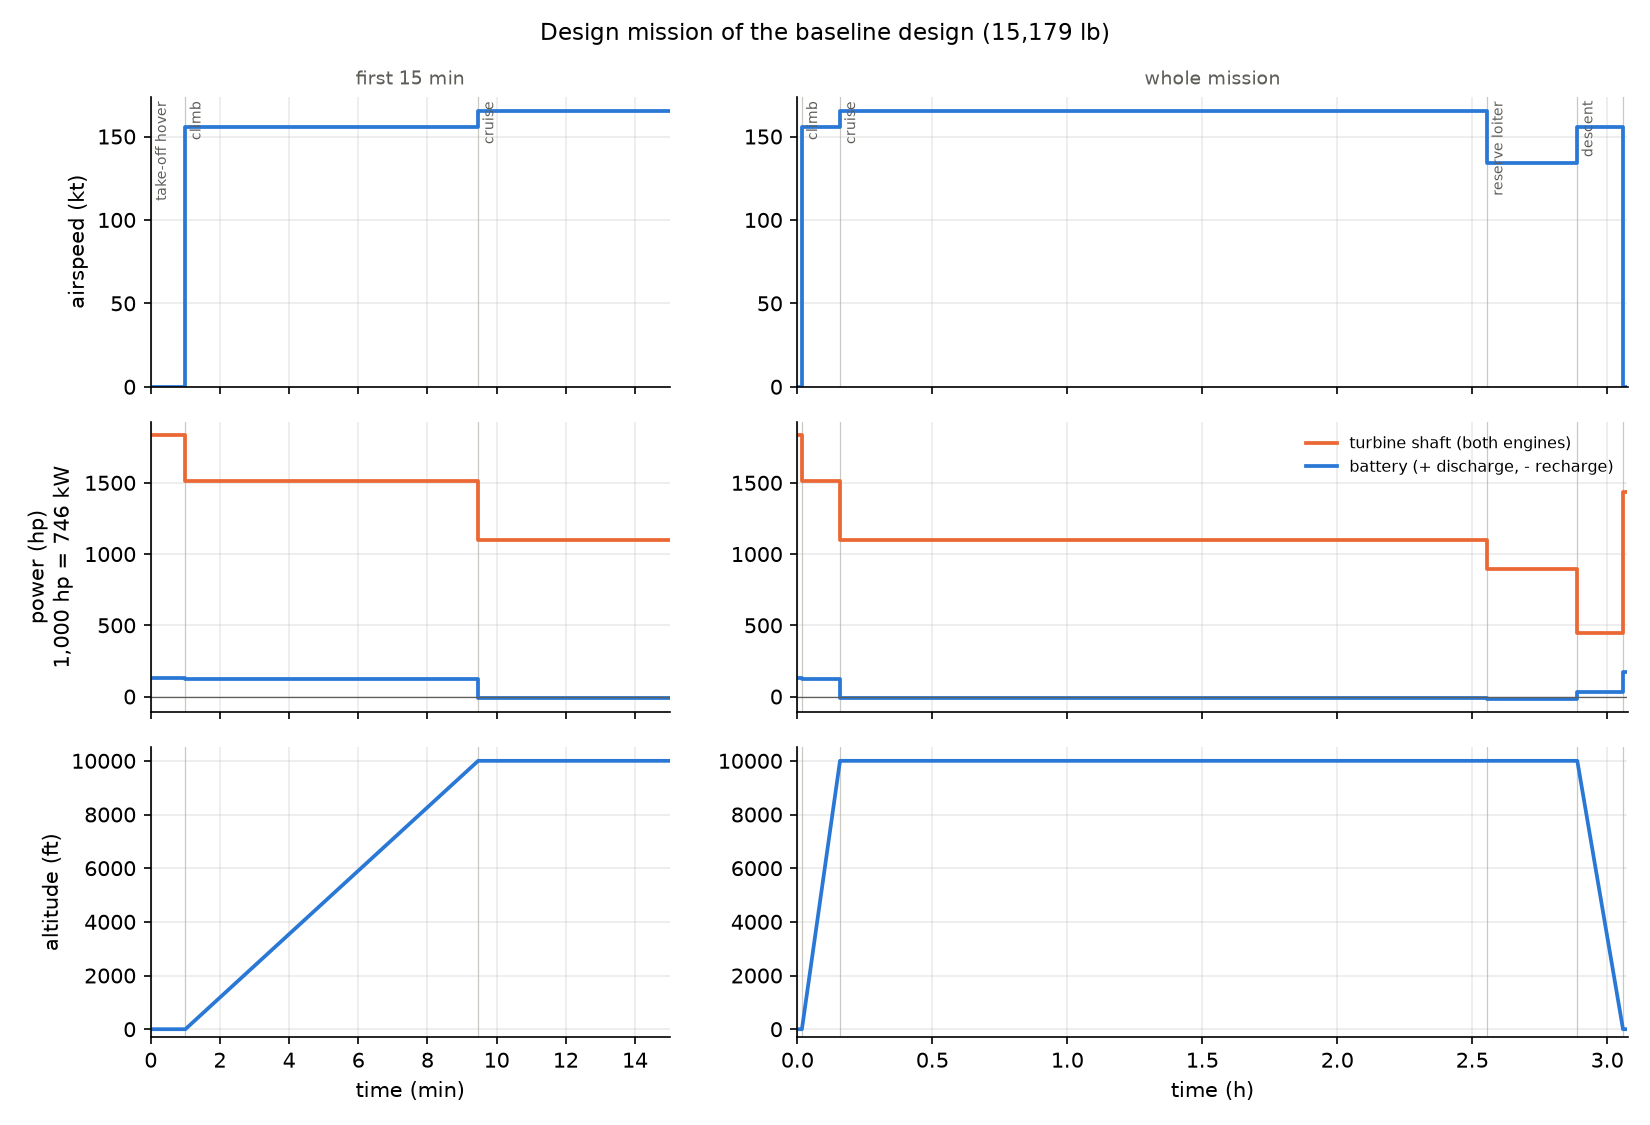
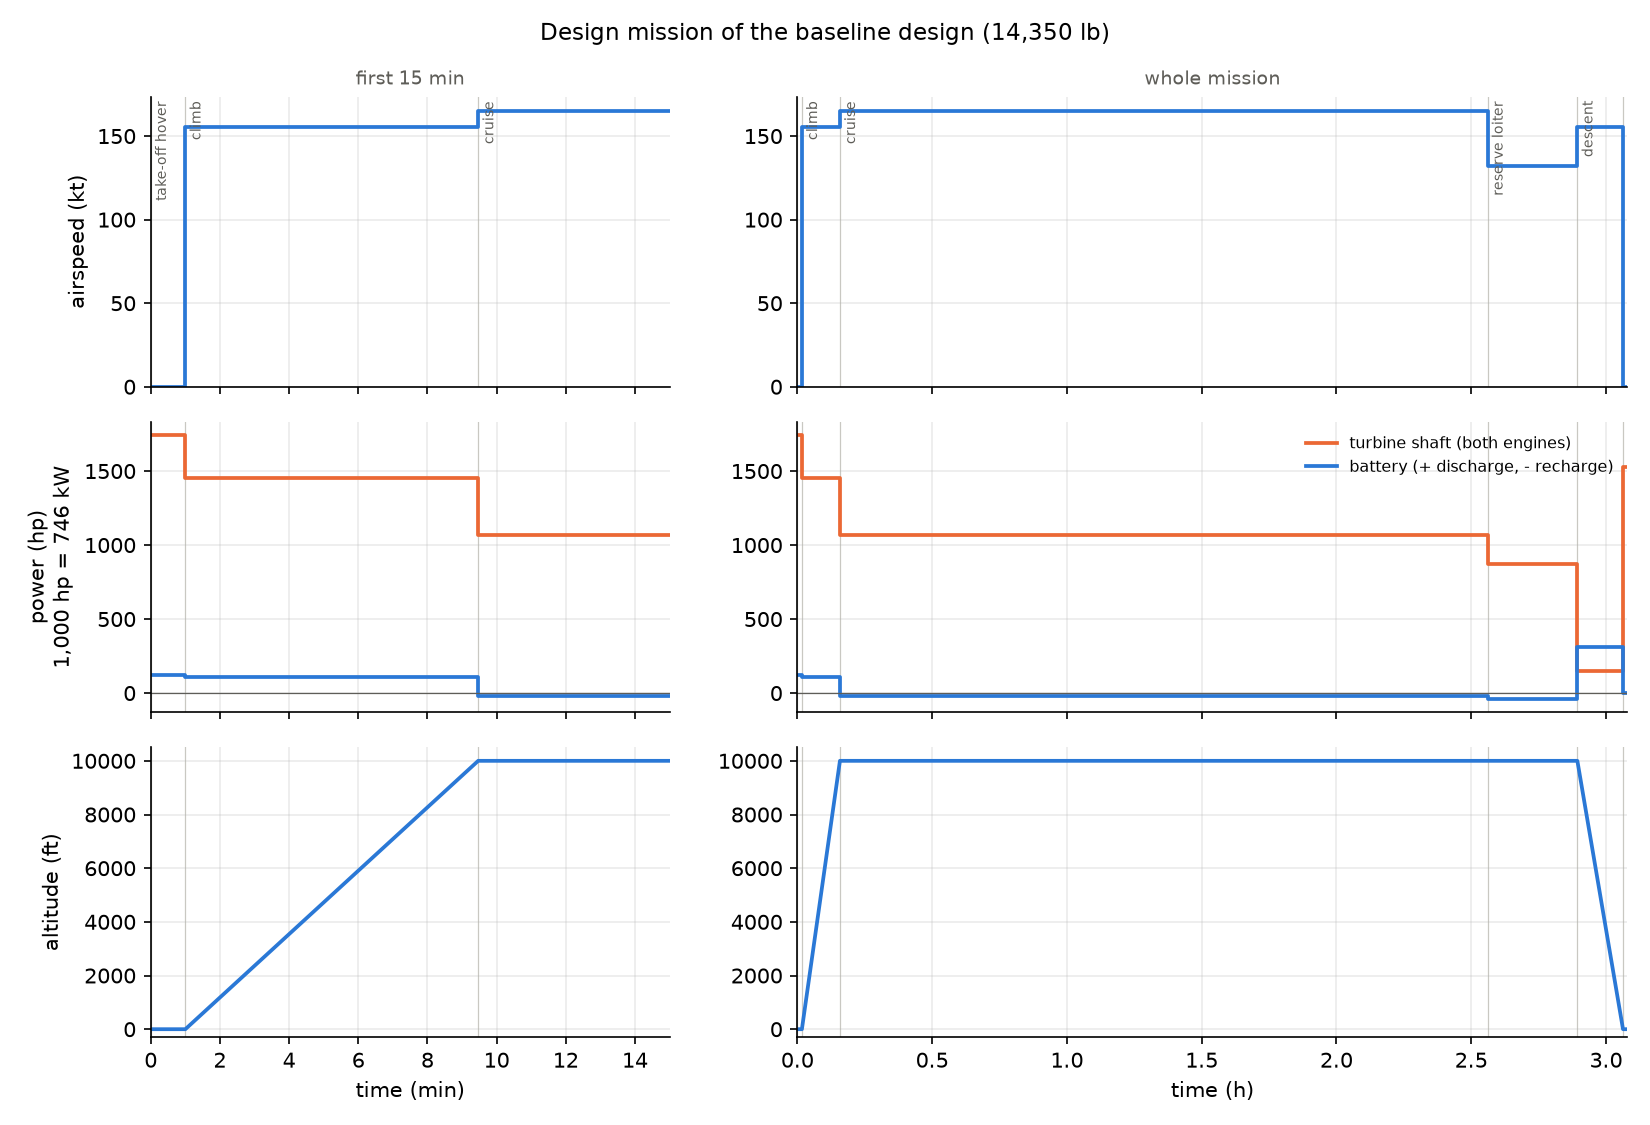
docs(readme): v3.10 figures, empty-weight table and mission profiles (plan 060)
The README figures were still v3.6. Regenerated from the v3.10 sizing; the empty-weight donut gets a
script (examples/halo_oew_breakdown.py) since it had none.

diff --git a/examples/halo_oew_breakdown.py b/examples/halo_oew_breakdown.py
@@ -1,0 +1,83 @@
+"""Empty-weight breakdown of the sized Halo baseline as a donut: powertrain groups in blue, airframe in orange.
+
+    python -m examples.halo_oew_breakdown    # sizes the baseline; writes output/oew/oew_breakdown.png
+"""
+import os
+
+import aerosandbox.tools.units as u
+
+# (label, airframe component names, powertrain instance names); powertrain groups first.
+groups = (
+    ("Rotors and gearboxes", (), ("propulsor", "gearbox", "generator_gearbox")),
+    ("Motors and generators", (), ("motor", "generator")),
+    ("Battery", (), ("battery",)),
+    ("Turboshafts, cooling,\nprotection", (), ("turboshaft", "heat_exchanger", "protection_string",
+                                              "protection_bus_tie", "cable_bus_tie")),
+    ("Systems and equipment", ("systems", "equipment"), ()),
+    ("Wing, nacelles, tails", ("wing", "nacelles", "horizontal_tail", "vertical_tail", "drive_shaft"), ()),
+    ("Fuselage", ("fuselage",), ()),
+    ("Landing gear", ("landing_gear",), ()),
+)
+colors = ("#1d4f91", "#2a78d6", "#71a3e3", "#b3cdf0", "#f2b28f", "#eb6834", "#b84a1f", "#7a3315")
+
+
+def group_masses_kg(sizing):
+    """(label, mass) per group; every empty-weight item lands in exactly one group."""
+    components, powertrain = dict(sizing.component_masses_kg), dict(sizing.powertrain_masses_kg)
+    rows = [(label, sum(components.get(n, 0.0) for n in names_c) + sum(powertrain.get(n, 0.0) for n in names_p))
+            for label, names_c, names_p in groups]
+    named = {n for _, c, p in groups for n in c + p}
+    missing = [n for n in list(powertrain) if n not in named]
+    if missing:
+        raise ValueError(f"powertrain items not grouped: {missing}")
+    return rows
+
+
+def plot_breakdown(sizing, path, version=None):
+    import matplotlib
+    matplotlib.use("Agg")
+    import matplotlib.pyplot as plt
+    rows = group_masses_kg(sizing)
+    total_lb = sum(m for _, m in rows) / u.lbm
+    fig, ax = plt.subplots(figsize=(9.3, 6.3), facecolor="#FFFFFF")
+    wedges, _ = ax.pie([m for _, m in rows], colors=colors, startangle=90, counterclock=False,
+                       wedgeprops=dict(width=0.42, edgecolor="#FFFFFF", linewidth=2))
+    for wedge, (label, mass_kg) in zip(wedges, rows):
+        angle = numpy_deg_mid(wedge)
+        x, y = cos_sin(angle)
+        ax.annotate(f"{label}\n{mass_kg / u.lbm:,.0f} lb ({mass_kg / u.lbm / total_lb:.0%})".replace("%", " %"),
+                    xy=(0.8 * x, 0.8 * y), xytext=(1.28 * x, 1.22 * y), fontsize=9.5, color="#222222",
+                    ha="left" if x > 0 else "right", va="center",
+                    arrowprops=dict(arrowstyle="-", color="#555555", lw=0.8))
+    ax.text(0, 0.08, f"{total_lb:,.0f} lb", ha="center", va="center", fontsize=16, fontweight="bold")
+    ax.text(0, -0.12, f"empty weight\n({total_lb * u.lbm:,.0f} kg)", ha="center", va="center", fontsize=9.5,
+            color="#666666")
+    name = f"{version}, " if version else ""
+    ax.set_title(f"Empty weight breakdown, {name}{sizing.mass_takeoff_kg / u.lbm:,.0f} lb take-off "
+                 f"(powertrain blue, airframe orange)", fontsize=11.5, pad=30)
+    ax.set_aspect("equal")
+    fig.tight_layout()
+    os.makedirs(os.path.dirname(path) or ".", exist_ok=True)
+    fig.savefig(path, dpi=110, facecolor="#FFFFFF")
+    plt.close(fig)
+    return rows
+
+
+def numpy_deg_mid(wedge):
+    return 0.5 * (wedge.theta1 + wedge.theta2)
+
+
+def cos_sin(angle_deg):
+    import math
+    return math.cos(math.radians(angle_deg)), math.sin(math.radians(angle_deg))
+
+
+def run(sizing=None, directory="output/oew", version=None):
+    if sizing is None:
+        from examples.halo_sizing import solve_halo_sizing
+        sizing = solve_halo_sizing()
+    return plot_breakdown(sizing, os.path.join(directory, "oew_breakdown.png"), version)
+
+
+if __name__ == "__main__":
+    run()

diff --git a/README.md b/README.md
@@ -37,8 +37,8 @@ inputs without restructuring the model.
 | Cooling | epsilon-NTU offset-strip-fin core in a ram-air duct with a hover fan, 58 kg (plans 042, 051) |
 | Fuselage | 36.1 ft long, unpressurized box section 5.5 × 6.6 ft |
 
-The empty-weight breakdown, its uncertainty and the mission-profile figures below are still those of v3.6
-(15,179 lb) until they are regenerated. The model works in SI internally; [docs/RESULTS.md](docs/RESULTS.md) gives
+The empty-weight breakdown, its uncertainty and the mission profiles below are v3.10. The payload-range diagram,
+the battery-size trade and the constraint diagram are still drawn on earlier versions (labelled on each). The model works in SI internally; [docs/RESULTS.md](docs/RESULTS.md) gives
 the SI values alongside.
 
 ![Halo-class 3-view and nacelle conversion](docs/figures/halo_views.png)
@@ -64,6 +64,7 @@ the SI values alongside.
 | Whirl flutter | Frequency placement (the reference fluttered at 262 kt against 302 kt) | Calibrated rotor-pylon-wing eigenvalue model (plan 040) inside the optimizer as an eigenpair constraint, delta-3 a design variable (plan 055) |
 | Proprotor | Momentum plus profile, fitted to JVX | Same in the loop; a NeuralFoil blade-element-momentum model, validated on full-scale JVX and XV-15 data, designs the blade outside it (plans 047, 052) |
 | Wing | AFDD stiffness sizing x 1.33 | Same in the loop; spar-cap strain at ultimate available as a constraint (plan 043); NeuralFoil section-thickness trade (plan 046) |
+| Battery voltage | Each segment's end voltage at its mid-segment state of charge (optimistic in the engine-out hover: about 507 V stepped, against the 525 V cutoff) | Option `battery_dynamics="piecewise"`: the mission collocated on nodes, current solved from the power required through the equivalent circuit at every node; the converged pack is 64.0 kWh against 61.5 (plan 060, not yet the default) |
 | Operations | Design point only | Off-design solve and payload-range (plan 045); battery size by objective (plan 044); trajectories fly the epsilon-NTU cooler (plan 049); minimum-energy and minimum-time transitions |
 
 ## Aircraft versions
@@ -220,10 +221,10 @@ the empty-weight build-up carries two separate quantities:
   wide. The items are independent, so the OEW spread is the root sum of squares.
 
 The target is a not-to-exceed weight, and the design should carry enough margin that its 99 % value comes in at or
-below it. With the target at today's basic OEW (11,130 lb):
-- the growth allowance moves the prediction to 12,092 lb;
+below it. With the target at today's basic OEW (10,365 lb):
+- the growth allowance moves the prediction to 11,256 lb;
 - the chance of meeting the target is effectively zero;
-- the 99 % value is 1,613 lb over.
+- the 99 % value is 1,505 lb over.
 
 This is the size of the margin the weights team has to manage. The spread is at a fixed take-off weight:
 weight growth through re-sizing, and correlated errors between items, would widen it.
@@ -232,29 +233,29 @@ weight growth through re-sizing, and correlated errors between items, would wide
 
 | Item | Basic weight (lb) | Maturity | Growth allowance (%) | Growth allowance (lb) | Uncertainty, 1σ (%) | Uncertainty, 1σ (lb) | Predicted weight (lb) | Basis |
 |---|---|---|---|---|---|---|---|---|
-| Rotors | 1,488 | Calibrated parametric | 10 | 149 | 7.5 | 112 | 1,637 | AFDD blades and hubs, XV-15 calibrated |
-| Battery | 1,047 | Calculated / layout | 8 | 84 | 7.5 | 79 | 1,131 | 50G cell data; 70 % cell-to-pack mass assumed |
+| Rotors | 1,385 | Calibrated parametric | 10 | 139 | 7.5 | 104 | 1,524 | AFDD blades and hubs, XV-15 calibrated |
 | Motors (with inverters) | 938 | Vendor data | 5 | 47 | 5.0 | 47 | 985 | Whole catalogue units plus inverter allowance |
 | Turboshafts | 930 | Vendor hardware | 2 | 19 | 2.5 | 23 | 948 | Fixed off-the-shelf engines plus installation |
-| Rotor gearboxes | 645 | Calibrated parametric | 10 | 64 | 10.0 | 64 | 709 | AFDD drive system |
-| Generators (with inverters) | 621 | Vendor data | 5 | 31 | 5.0 | 31 | 652 | Whole catalogue units plus inverter allowance |
-| Generator gearboxes | 318 | Calibrated parametric | 10 | 32 | 10.0 | 32 | 350 | AFDD drive system |
-| Heat exchanger | 280 | Estimated | 15 | 42 | 15.0 | 42 | 322 | Thermal model, mass per watt assumed |
-| Protection and bus tie | 63 | Estimated | 15 | 9 | 20.0 | 13 | 72 | Simple ratings-based estimate |
-| Fuselage | 1,235 | Calculated / layout | 8 | 99 | 10.0 | 123 | 1,334 | Raymer x 1.70, anchored to the drawn layout |
-| Wing | 899 | Calibrated parametric | 10 | 90 | 10.0 | 90 | 989 | AFDD tiltrotor wing x 1.33 (XV-15); strength at ultimate not demonstrated |
-| Systems | 898 | Calibrated parametric | 10 | 90 | 15.0 | 135 | 988 | Raymer; flight controls carry an XV-15 factor of about 4 |
+| Battery | 919 | Calculated / layout | 8 | 74 | 7.5 | 69 | 993 | 50G cell data; 70 % cell-to-pack mass assumed |
+| Rotor gearboxes | 604 | Calibrated parametric | 10 | 60 | 10.0 | 60 | 664 | AFDD drive system |
+| Generators (with inverters) | 414 | Vendor data | 5 | 21 | 5.0 | 21 | 435 | Whole catalogue units plus inverter allowance |
+| Generator gearboxes | 335 | Calibrated parametric | 10 | 34 | 10.0 | 34 | 369 | AFDD drive system |
+| Heat exchanger | 130 | Estimated | 15 | 19 | 15.0 | 19 | 149 | Thermal model, mass per watt assumed |
+| Protection and bus tie | 50 | Estimated | 15 | 8 | 20.0 | 10 | 58 | Simple ratings-based estimate |
+| Fuselage | 1,222 | Calculated / layout | 8 | 98 | 10.0 | 122 | 1,320 | Raymer x 1.70, anchored to the drawn layout |
+| Systems | 851 | Calibrated parametric | 10 | 85 | 15.0 | 128 | 936 | Raymer; flight controls carry an XV-15 factor of about 4 |
+| Wing | 851 | Calibrated parametric | 10 | 85 | 10.0 | 85 | 936 | AFDD tiltrotor wing x 1.33 (XV-15); strength at ultimate not demonstrated |
 | Fixed equipment | 587 | Estimated | 15 | 88 | 10.0 | 59 | 675 | Assumed allowance |
-| Landing gear | 570 | Calibrated parametric | 10 | 57 | 7.5 | 43 | 627 | Raymer x XV-15 factor |
+| Landing gear | 546 | Calibrated parametric | 10 | 55 | 7.5 | 41 | 601 | Raymer x XV-15 factor |
 | Nacelles | 430 | Calibrated parametric | 10 | 43 | 10.0 | 43 | 472 | AFDD-class estimate |
-| Tails | 183 | Calibrated parametric | 10 | 18 | 10.0 | 18 | 201 | Raymer x XV-15 factor |
-| **OEW** | **11,130** | | **8.6** | **962** | **2.5** | **280** | **12,092** | Growth summed; uncertainty root sum of squares, items independent |
+| Tails | 173 | Calibrated parametric | 10 | 17 | 10.0 | 17 | 190 | Raymer x XV-15 factor |
+| **OEW** | **10,365** | | **8.6** | **890** | **2.5** | **264** | **11,256** | Growth summed; uncertainty root sum of squares, items independent |
 
 **Mission profiles.** Airspeed, turbine shaft power against battery power, and altitude, for the design mission
 (first 15 min on the left, the whole mission on the right):
 
 - **Design mission, as sized.** Each segment is one solved operating point, so the profile is a series of steps.
-  In the take-off hover the turbines give 1,833 hp and the battery 134 hp. In cruise the turbines carry everything
+  In the take-off hover the turbines give 1,741 hp and the battery 121 hp. In cruise the turbines carry everything
   and recharge the pack.
 
 ![Design mission profile](docs/figures/mission_profile.png)
@@ -262,9 +263,10 @@ weight growth through re-sizing, and correlated errors between items, would wide
 - **Same mission with an optimized take-off and climb.** The minimum-time climb from hover to 10,000 ft at cruise
   speed, flown by direct collocation inside the computed conversion corridor, replaces the take-off hover and the
   prescribed climb.
-  - The turbines run at their full 2,240 hp while the battery tops up to about 520 hp.
-  - It reaches cruise in 3.8 min instead of 9.5 min, on about half the fuel (65 lb against 135 lb).
-  - The aircraft is the same v3.6 design, not re-sized.
+  - The turbines run near their full 2,240 hp (about 2,180 hp at the shaft) while the battery tops up to about 410 hp.
+  - It reaches cruise in 3.8 min instead of 9.5 min, on half the fuel (65 lb against 130 lb) and 7.8 kWh of
+    battery against 13.1.
+  - The aircraft is the same v3.10 design, not re-sized.
 
 ![Mission profile with optimized take-off](docs/figures/mission_profile_optimized_takeoff.png)
 
